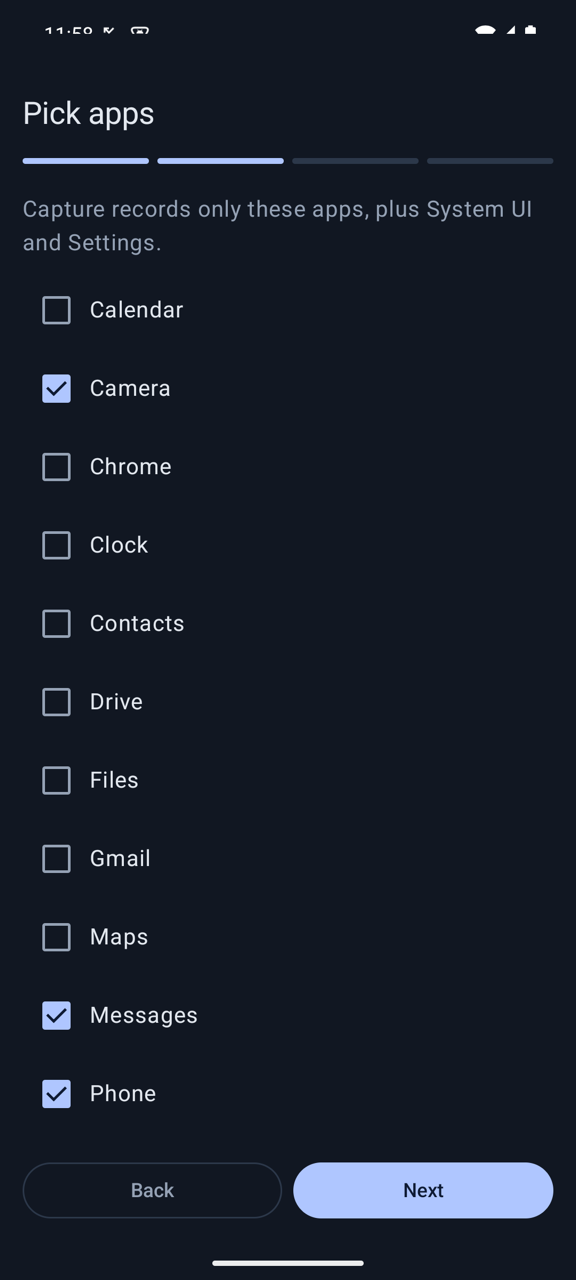
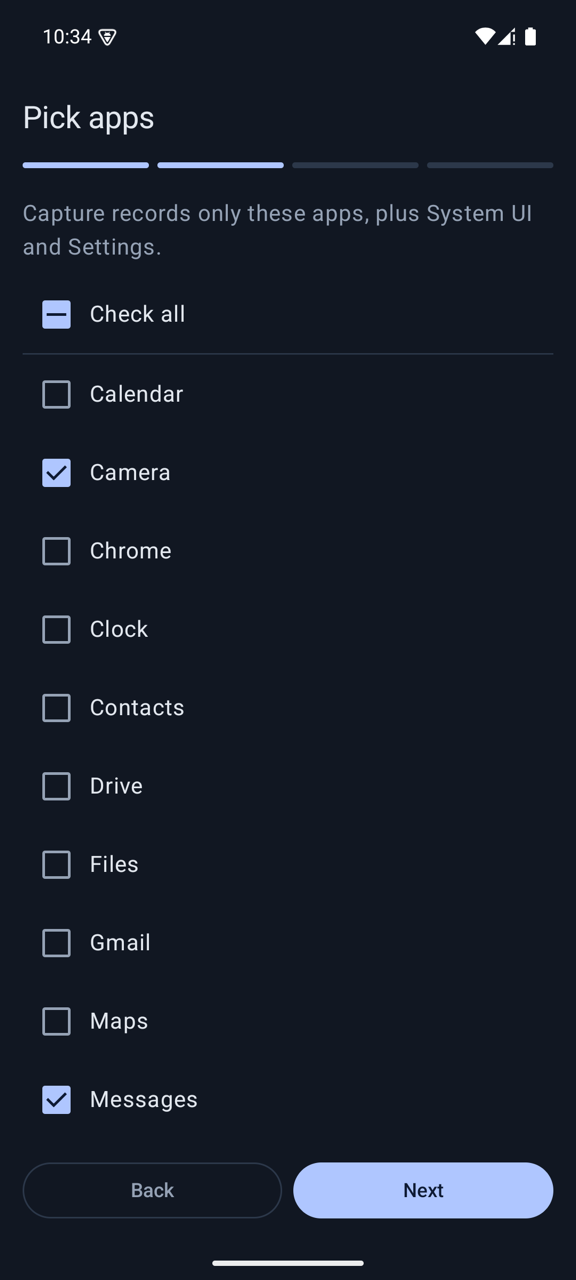
Retake the Pick apps and Setup Apps screenshots
Both now show the Check all row and the Add all apps button.

diff --git a/docs/USER_MANUAL.md b/docs/USER_MANUAL.md
@@ -183,7 +183,7 @@ Both go into every row of the log and into the export folder's name.
 
 ### Step 2: Pick apps
 
-![Pick apps with Camera, Messages and Phone ticked](manual/firstrun-2-pick-apps.png)
+![Pick apps with Camera and Messages ticked and a dash in Check all](manual/firstrun-2-pick-apps.png)
 
 Tick the apps under test. The list shows apps with a launcher icon, without KDL itself. Capture
 records only the apps you tick, plus System UI and Settings, which are always captured. **Check
